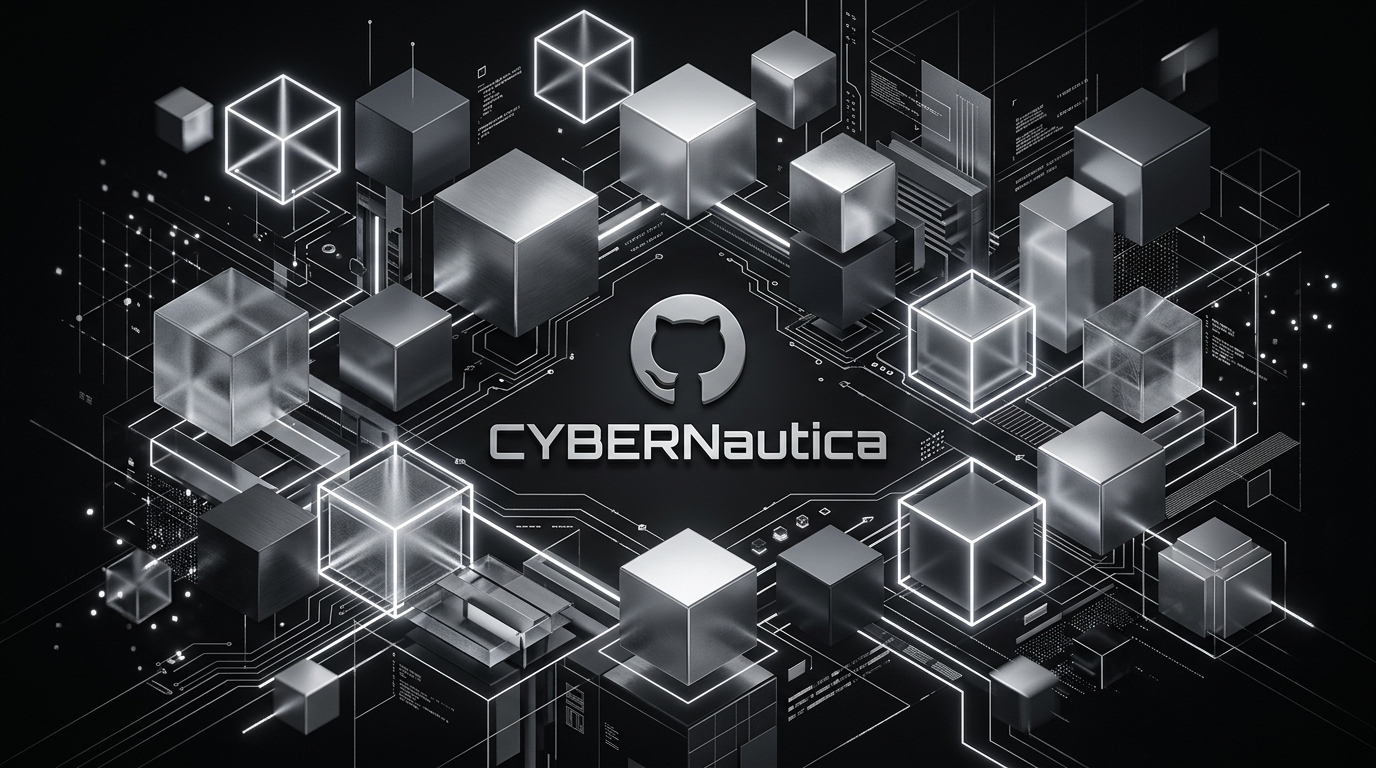
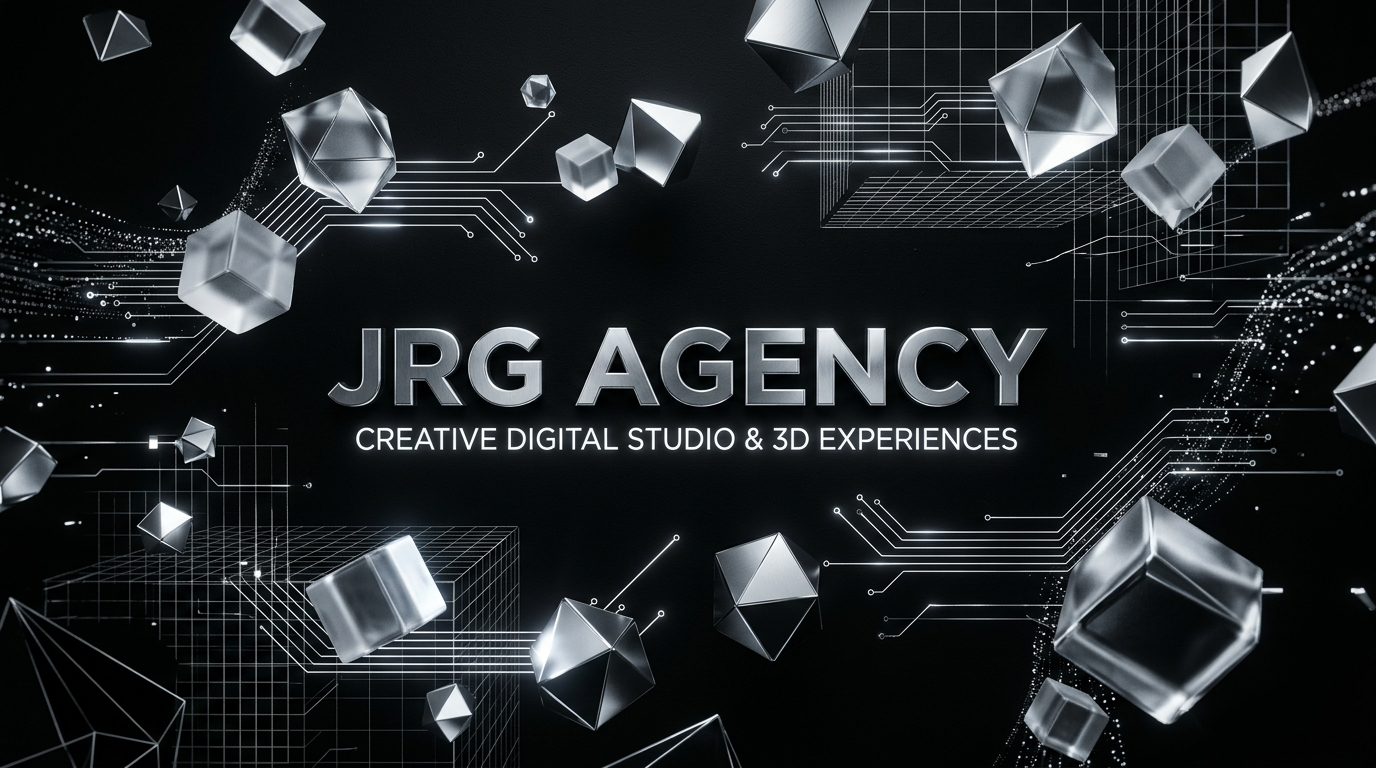
feat: pivot profile to JRG Agency 3D web studio

diff --git a/README.md b/README.md
@@ -1,27 +1,30 @@
 <div align="center">
 
-  <!-- 3D Monochromatic Futuristic Banner -->
-  <img src="./assets/banner.jpg" alt="Profile Banner" width="100%" style="border-radius: 12px; border: 1px solid #262626;" />
+  <!-- 3D Monochromatic JRG Agency Banner -->
+  <img src="./assets/banner.jpg" alt="JRG Agency Banner" width="100%" style="border-radius: 12px; border: 1px solid #262626;" />
 
   <br/><br/>
 
   <!-- Dynamic Typing SVG Header -->
-  <a href="https://github.com/jakesroodriguez">
-    <img src="https://readme-typing-svg.demolab.com?font=Fira+Code&weight=600&size=24&duration=2800&pause=1000&color=FFFFFF&center=true&vCenter=true&multiline=false&width=650&height=50&lines=Full+Stack+Software+Engineer;Building+Modern+Web+%26+Mobile+Platforms;Clean+Architecture+%26+High-Performance+Apps;Open+Source+%26+Creative+Technologist" alt="Typing SVG" />
+  <a href="https://github.com/jakesroodriguez/JRG-agency">
+    <img src="https://readme-typing-svg.demolab.com?font=Fira+Code&weight=600&size=24&duration=2800&pause=1000&color=FFFFFF&center=true&vCenter=true&multiline=false&width=700&height=50&lines=JRG+Agency+%2F%2F+Creative+Digital+Studio+%26+3D+Web;Immersive+WebGL+%26+Three.js+Experiences;Cinematic+GSAP+Animations+%26+High-Performance+Web;Bespoke+Digital+Solutions+%26+Creative+Engineering" alt="Typing SVG" />
   </a>
 
   <!-- Animated Scanner Divider -->
   <img src="./assets/divider.svg" width="100%" alt="Divider" />
 
   <p align="center">
-    <a href="https://github.com/jakesroodriguez">
-      <img src="https://img.shields.io/badge/STATUS-ACTIVE%20BUILDER-000000?style=for-the-badge&logo=statuspal&logoColor=00ff66&labelColor=111111" alt="Status" />
+    <a href="https://github.com/jakesroodriguez/JRG-agency">
+      <img src="https://img.shields.io/badge/STUDIO-JRG%20AGENCY-000000?style=for-the-badge&logo=codewars&logoColor=white&labelColor=111111" alt="Studio" />
     </a>
     <a href="https://github.com/jakesroodriguez">
-      <img src="https://img.shields.io/badge/FOCUS-FULL%20STACK%20DEV-000000?style=for-the-badge&logo=probot&logoColor=white&labelColor=111111" alt="Focus" />
+      <img src="https://img.shields.io/badge/FOUNDER-JAKES%20RODRIGUEZ-000000?style=for-the-badge&logo=probot&logoColor=white&labelColor=111111" alt="Founder" />
     </a>
-    <a href="https://komarev.com/ghpvc/?username=jakesroodriguez&label=PROFILE%20VIEWS&color=000000&style=for-the-badge">
-      <img src="https://komarev.com/ghpvc/?username=jakesroodriguez&label=PROFILE%20VIEWS&color=000000&style=for-the-badge" alt="Views" />
+    <a href="https://github.com/jakesroodriguez/JRG-agency">
+      <img src="https://img.shields.io/badge/STATUS-OPEN%20FOR%20PROJECTS-000000?style=for-the-badge&logo=statuspal&logoColor=00ff66&labelColor=111111" alt="Status" />
+    </a>
+    <a href="https://komarev.com/ghpvc/?username=jakesroodriguez&label=STUDIO%20VIEWS&color=000000&style=for-the-badge">
+      <img src="https://komarev.com/ghpvc/?username=jakesroodriguez&label=STUDIO%20VIEWS&color=000000&style=for-the-badge" alt="Views" />
     </a>
   </p>
 
@@ -29,22 +32,23 @@
 
 ---
 
-### ⚡ `// SYSTEM_INITIALIZE` — Sobre Mí
+### ⚡ `// STUDIO_MANIFESTO` — Sobre JRG Agency
 
 ```yaml
-developer:
-  handle: jakesroodriguez
-  role: Full Stack Software Engineer
-  mindset: "Crafting robust architectures with pixel-perfect interfaces"
-  current_mission: "Building scalable web platforms, interactive tools & modern applications"
-  core_stack: ["TypeScript", "JavaScript", "React / Next.js", "Node.js", "Vercel"]
-  hobbies: ["Tech R&D", "3D Graphics", "Clean Architecture", "UI/UX Engineering"]
+studio:
+  name: "JRG Agency"
+  lead_engineer: "Jakes Rodriguez (@jakesroodriguez)"
+  origin: "Urretxu, País Vasco, España"
+  mission: "Desarrollo web de alto rendimiento, experiencias 3D inmersivas y diseño vanguardista"
+  core_competencies:
+    - "Experiencias WebGL y 3D en tiempo real (Three.js & React Three Fiber)"
+    - "Animaciones cinematográficas & ScrollTrigger (GSAP)"
+    - "Smooth scrolling y arquitectura fluida (Lenis)"
+    - "Desarrollo Full Stack reactivo y ultra optimizado (TypeScript, React, Next.js)"
+  inquiries: "jakessrodriguezz@gmail.com"
 ```
 
-- 🔭 **Actualmente:** Desarrollando proyectos full stack interactivos, herramientas móviles y aplicaciones en producción como **Ayat Móviles**, **Kescam** e **Ikasroom**.
-- 🌱 **En constante aprendizaje:** Profundizando en arquitecturas escalables, diseño de sistemas y nuevas tecnologías web.
-- 💬 **Hablemos de:** TypeScript, diseño modular de componentes, despliegues continuos y buenas prácticas de desarrollo.
-- ⚡ **Filosofía:** *"Menos código innecesario, más arquitectura resiliente y diseño memorable."*
+**JRG Agency** es un estudio creativo de ingeniería digital enfocado en trascender las webs convencionales. Fusionamos **tecnología 3D de última generación (WebGL / Three.js)**, microinteracciones milimétricas con **GSAP** y arquitecturas frontend ultra rápidas para crear productos digitales que impactan y convierten.
 
 <br/>
 
@@ -54,7 +58,30 @@ developer:
 
 ---
 
-### 🛠 `// TECH_RADAR` — Stack Tecnológico
+### 🎯 `// CORE_CAPABILITIES` — Especialidades del Estudio
+
+<br/>
+
+<div align="center">
+
+| Capacidad | Enfoque Técnico | Impacto |
+| :--- | :--- | :--- |
+| 🎮 **Experiencias 3D Inmersivas** | `Three.js` `React Three Fiber` `WebGL` `Shaders` | Entornos 3D interactivos en tiempo real dentro del navegador sin plugins externos. |
+| 🎬 **Animaciones Cinemáticas** | `GSAP` `ScrollTrigger` `Timeline Orchestration` | Coreografías de scroll fluidas, efectos de fijación (*pinning*) y transiciones estéticas. |
+| 🌊 **Smooth Scroll & Microinteracciones** | `Lenis` `Framer Motion` `CSS Keyframes` | Navegación suave, orgánica y navegación táctil de categoría internacional. |
+| ⚡ **Web Apps de Alto Rendimiento** | `TypeScript` `React 18` `Next.js` `Vite` `Tailwind` | Tiempos de carga mínimos, accesibilidad, SEO técnico y código limpio y modular. |
+
+</div>
+
+<br/>
+
+<div align="center">
+  <img src="./assets/divider.svg" width="100%" alt="Divider" />
+</div>
+
+---
+
+### 🛠 `// TECH_STACK` — Tecnologías & Herramientas
 
 <br/>
 
@@ -62,42 +89,40 @@ developer:
 
   <table>
     <tr>
-      <td width="22%" align="center"><strong>Frontend & UI</strong></td>
+      <td width="24%" align="center"><strong>3D & Creative Tech</strong></td>
       <td>
-        <img src="https://img.shields.io/badge/TypeScript-000000?style=for-the-badge&logo=typescript&logoColor=white" />
-        <img src="https://img.shields.io/badge/JavaScript-000000?style=for-the-badge&logo=javascript&logoColor=white" />
-        <img src="https://img.shields.io/badge/React-000000?style=for-the-badge&logo=react&logoColor=white" />
-        <img src="https://img.shields.io/badge/Next.js-000000?style=for-the-badge&logo=nextdotjs&logoColor=white" />
-        <img src="https://img.shields.io/badge/Tailwind_CSS-000000?style=for-the-badge&logo=tailwindcss&logoColor=white" />
-        <img src="https://img.shields.io/badge/HTML5-000000?style=for-the-badge&logo=html5&logoColor=white" />
-        <img src="https://img.shields.io/badge/CSS3-000000?style=for-the-badge&logo=css3&logoColor=white" />
+        <img src="https://img.shields.io/badge/Three.js-000000?style=for-the-badge&logo=threedotjs&logoColor=white" />
+        <img src="https://img.shields.io/badge/WebGL-000000?style=for-the-badge&logo=webgl&logoColor=white" />
+        <img src="https://img.shields.io/badge/GSAP-000000?style=for-the-badge&logo=greensock&logoColor=white" />
+        <img src="https://img.shields.io/badge/ScrollTrigger-000000?style=for-the-badge&logo=scrolltrigger&logoColor=white" />
+        <img src="https://img.shields.io/badge/Lenis_Scroll-000000?style=for-the-badge&logo=speedtest&logoColor=white" />
       </td>
     </tr>
     <tr>
-      <td width="22%" align="center"><strong>Backend & APIs</strong></td>
+      <td width="24%" align="center"><strong>Frontend Engineering</strong></td>
+      <td>
+        <img src="https://img.shields.io/badge/TypeScript-000000?style=for-the-badge&logo=typescript&logoColor=white" />
+        <img src="https://img.shields.io/badge/React_18-000000?style=for-the-badge&logo=react&logoColor=white" />
+        <img src="https://img.shields.io/badge/Next.js-000000?style=for-the-badge&logo=nextdotjs&logoColor=white" />
+        <img src="https://img.shields.io/badge/Tailwind_CSS-000000?style=for-the-badge&logo=tailwindcss&logoColor=white" />
+        <img src="https://img.shields.io/badge/Vite-000000?style=for-the-badge&logo=vite&logoColor=white" />
+      </td>
+    </tr>
+    <tr>
+      <td width="24%" align="center"><strong>Backend & Cloud</strong></td>
       <td>
         <img src="https://img.shields.io/badge/Node.js-000000?style=for-the-badge&logo=nodedotjs&logoColor=white" />
         <img src="https://img.shields.io/badge/Express-000000?style=for-the-badge&logo=express&logoColor=white" />
-        <img src="https://img.shields.io/badge/Python-000000?style=for-the-badge&logo=python&logoColor=white" />
-        <img src="https://img.shields.io/badge/FastAPI-000000?style=for-the-badge&logo=fastapi&logoColor=white" />
-        <img src="https://img.shields.io/badge/REST_APIs-000000?style=for-the-badge&logo=postman&logoColor=white" />
-      </td>
-    </tr>
-    <tr>
-      <td width="22%" align="center"><strong>Database & Storage</strong></td>
-      <td>
         <img src="https://img.shields.io/badge/PostgreSQL-000000?style=for-the-badge&logo=postgresql&logoColor=white" />
-        <img src="https://img.shields.io/badge/MongoDB-000000?style=for-the-badge&logo=mongodb&logoColor=white" />
         <img src="https://img.shields.io/badge/Supabase-000000?style=for-the-badge&logo=supabase&logoColor=white" />
-        <img src="https://img.shields.io/badge/Prisma-000000?style=for-the-badge&logo=prisma&logoColor=white" />
+        <img src="https://img.shields.io/badge/Vercel-000000?style=for-the-badge&logo=vercel&logoColor=white" />
       </td>
     </tr>
     <tr>
-      <td width="22%" align="center"><strong>Cloud & DevOps</strong></td>
+      <td width="24%" align="center"><strong>Studio Tooling</strong></td>
       <td>
         <img src="https://img.shields.io/badge/Git-000000?style=for-the-badge&logo=git&logoColor=white" />
         <img src="https://img.shields.io/badge/GitHub-000000?style=for-the-badge&logo=github&logoColor=white" />
-        <img src="https://img.shields.io/badge/Vercel-000000?style=for-the-badge&logo=vercel&logoColor=white" />
         <img src="https://img.shields.io/badge/Docker-000000?style=for-the-badge&logo=docker&logoColor=white" />
         <img src="https://img.shields.io/badge/VS_Code-000000?style=for-the-badge&logo=visualstudiocode&logoColor=white" />
       </td>
@@ -114,13 +139,34 @@ developer:
 
 ---
 
-### 📊 `// METRICS_DASHBOARD` — Telemetría de GitHub
+### 🚀 `// AGENCY_PRODUCTIONS` — Proyectos & Showcase de JRG Agency
+
+<div align="center">
+
+| Producción | Descripción | Tecnologías | Enlaces |
+| :--- | :--- | :--- | :---: |
+| **⚡ JRG Agency — Flagship** | Sitio web oficial del estudio con WebGL 3D interactivo, animaciones cinemáticas con GSAP y scroll suave con Lenis. | `Three.js` `GSAP` `React` `Vite` `TypeScript` | [📁 Ver Código](https://github.com/jakesroodriguez/JRG-agency) |
+| **📱 Ayat Móviles** | Experiencia web moderna de navegación móvil optimizada para máxima velocidad de respuesta. | `TypeScript` `Modern Web` `Vercel` | [🌐 Live Demo](https://ayat-moviles.vercel.app) • [📁 Repo](https://github.com/jakesroodriguez/Ayat_Moviles) |
+| **📷 Kescam / Visión** | Aplicación web interactiva de captura y análisis visual en tiempo real en el navegador. | `TypeScript` `Web APIs` `Vercel` | [🌐 Live Demo](https://kescam.vercel.app) • [📁 Repo](https://github.com/jakesroodriguez/camara_vision) |
+| **🎓 Ikasroom** | Plataforma educativa interactiva con diseño centrado en la experiencia de usuario y rendimiento. | `HTML5` `CSS3` `JavaScript` | [🌐 Live Demo](https://ikasroom-2jd2.vercel.app) • [📁 Repo](https://github.com/jakesroodriguez/ikasroom) |
+
+</div>
+
+<br/>
+
+<div align="center">
+  <img src="./assets/divider.svg" width="100%" alt="Divider" />
+</div>
+
+---
+
+### 📊 `// STUDIO_METRICS` — Actividad de Desarrollo
 
 <div align="center">
 
   <!-- Streak Stats Monochrome -->
   <a href="https://github.com/jakesroodriguez">
-    <img src="https://streak-stats.demolab.com/?user=jakesroodriguez&theme=dark&background=050505&border=262626&stroke=ffffff&ring=ffffff&fire=ffffff&currStreakNum=ffffff&sideNums=a3a3a3&currStreakLabel=ffffff&sideLabels=a3a3a3&dates=737373" alt="GitHub Streak" width="98%" />
+    <img src="https://streak-stats.demolab.com/?user=jakesroodriguez&theme=dark&background=050505&border=262626&stroke=ffffff&ring=ffffff&fire=ffffff&currStreakNum=ffffff&sideNums=a3a3a3&currStreakLabel=ffffff&sideLabels=a3a3a3&dates=737373" alt="Streak Stats" width="98%" />
   </a>
 
   <br/><br/>
@@ -150,46 +196,28 @@ developer:
 
 ---
 
-### 🚀 `// FEATURED_PROJECTS` — Proyectos Destacados
+### 🌐 `// WORK_WITH_US` — Contrataciones & Contacto
 
 <div align="center">
 
-| Proyecto | Descripción | Stack | Enlaces |
-| :--- | :--- | :--- | :---: |
-| **01. Ayat Móviles** | Aplicación web móvil optimizada para navegación ágil y experiencia responsive. | `TypeScript` `Web` `Vercel` | [🌐 Live Demo](https://ayat-moviles.vercel.app) • [📁 Repo](https://github.com/jakesroodriguez/Ayat_Moviles) |
-| **02. Kescam / Cámara Visión** | Aplicación web interactiva de procesamiento visual y captura en tiempo real. | `TypeScript` `Web APIs` `Vercel` | [🌐 Live Demo](https://kescam.vercel.app) • [📁 Repo](https://github.com/jakesroodriguez/camara_vision) |
-| **03. Ikasroom** | Plataforma educativa interactiva orientada a la gestión y experiencia de aprendizaje. | `HTML5` `CSS3` `JavaScript` | [🌐 Live Demo](https://ikasroom-2jd2.vercel.app) • [📁 Repo](https://github.com/jakesroodriguez/ikasroom) |
-| **04. CRM Jakes** | Sistema de gestión de clientes y seguimiento comercial full stack. | `JavaScript` `CRM Engine` `Web` | [📁 Repo](https://github.com/jakesroodriguez/crm-jakes) |
-| **05. JRG Agency** | Solución web para presencia digital de agencia y portafolio de servicios. | `TypeScript` `Modern Web` | [📁 Repo](https://github.com/jakesroodriguez/JRG-agency) |
+<p>¿Tienes un proyecto, producto o visión que requiere diseño de vanguardia y experiencias 3D?</p>
 
-</div>
-
-<br/>
-
-<div align="center">
-  <img src="./assets/divider.svg" width="100%" alt="Divider" />
-</div>
-
----
-
-### 🌐 `// TRANSMISSION_CHANNELS` — Conectemos
-
-<p align="center">
-  <a href="https://github.com/jakesroodriguez" target="_blank">
-    <img src="https://img.shields.io/badge/GitHub-000000?style=for-the-badge&logo=github&logoColor=white&labelColor=111111" alt="GitHub" />
+  <a href="mailto:jakessrodriguezz@gmail.com">
+    <img src="https://img.shields.io/badge/SOLICITAR%20PRESUPUESTO-000000?style=for-the-badge&logo=gmail&logoColor=white&labelColor=111111" alt="Email Studio" />
+  </a>
+  &nbsp;
+  <a href="https://github.com/jakesroodriguez/JRG-agency" target="_blank">
+    <img src="https://img.shields.io/badge/JRG%20AGENCY%20REPO-000000?style=for-the-badge&logo=github&logoColor=white&labelColor=111111" alt="JRG Repo" />
   </a>
   &nbsp;
   <a href="https://linkedin.com/in/jakesroodriguez" target="_blank">
     <img src="https://img.shields.io/badge/LinkedIn-000000?style=for-the-badge&logo=linkedin&logoColor=white&labelColor=111111" alt="LinkedIn" />
   </a>
-  &nbsp;
-  <a href="mailto:jakessrodriguezz@gmail.com">
-    <img src="https://img.shields.io/badge/Email-000000?style=for-the-badge&logo=gmail&logoColor=white&labelColor=111111" alt="Email" />
-  </a>
-</p>
+
+</div>
 
 <br/>
 
 <div align="center">
-  <sub><code>⚡ Crafted with passion, code &amp; continuous learning. // END_OF_TRANSMISSION</code></sub>
+  <sub><code>⚡ JRG Agency &bull; Engineered with Three.js, GSAP &amp; Passion &bull; Urretxu, Basque Country // END_OF_TRANSMISSION</code></sub>
 </div>
